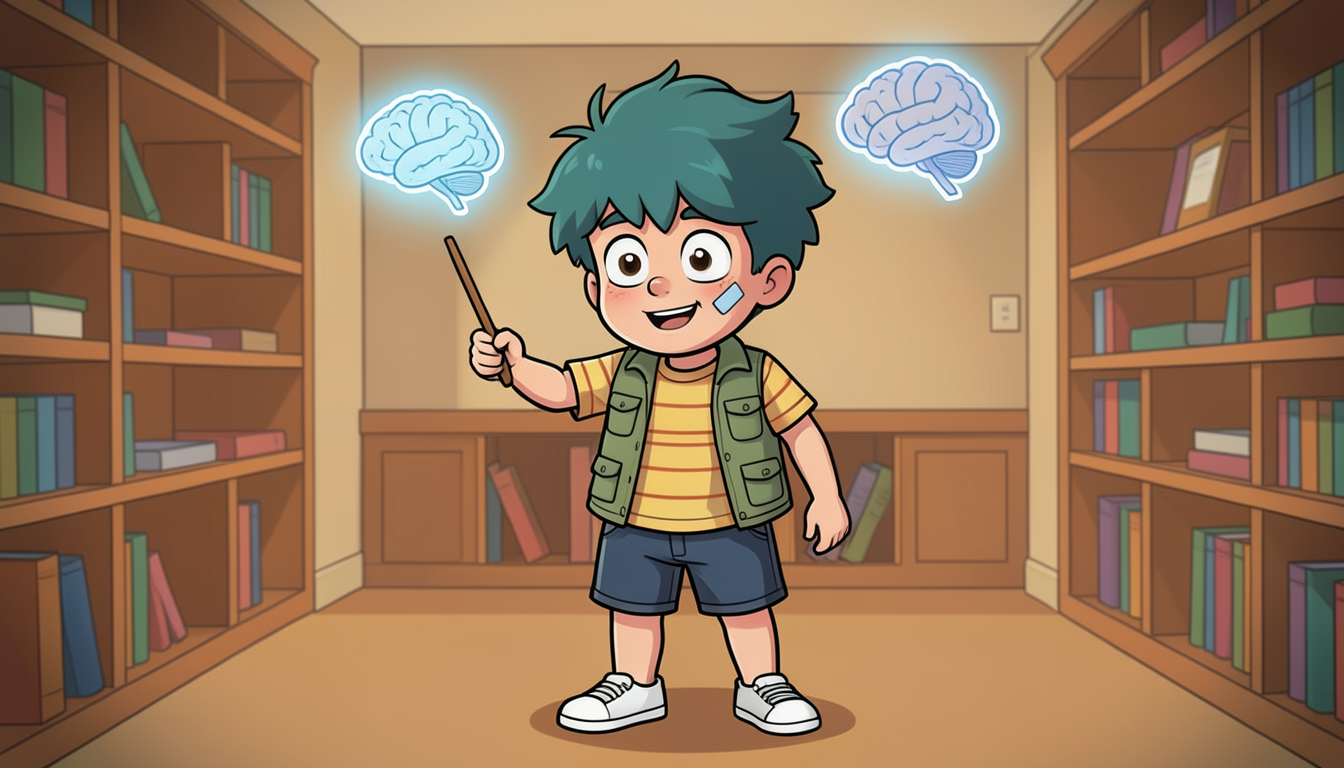
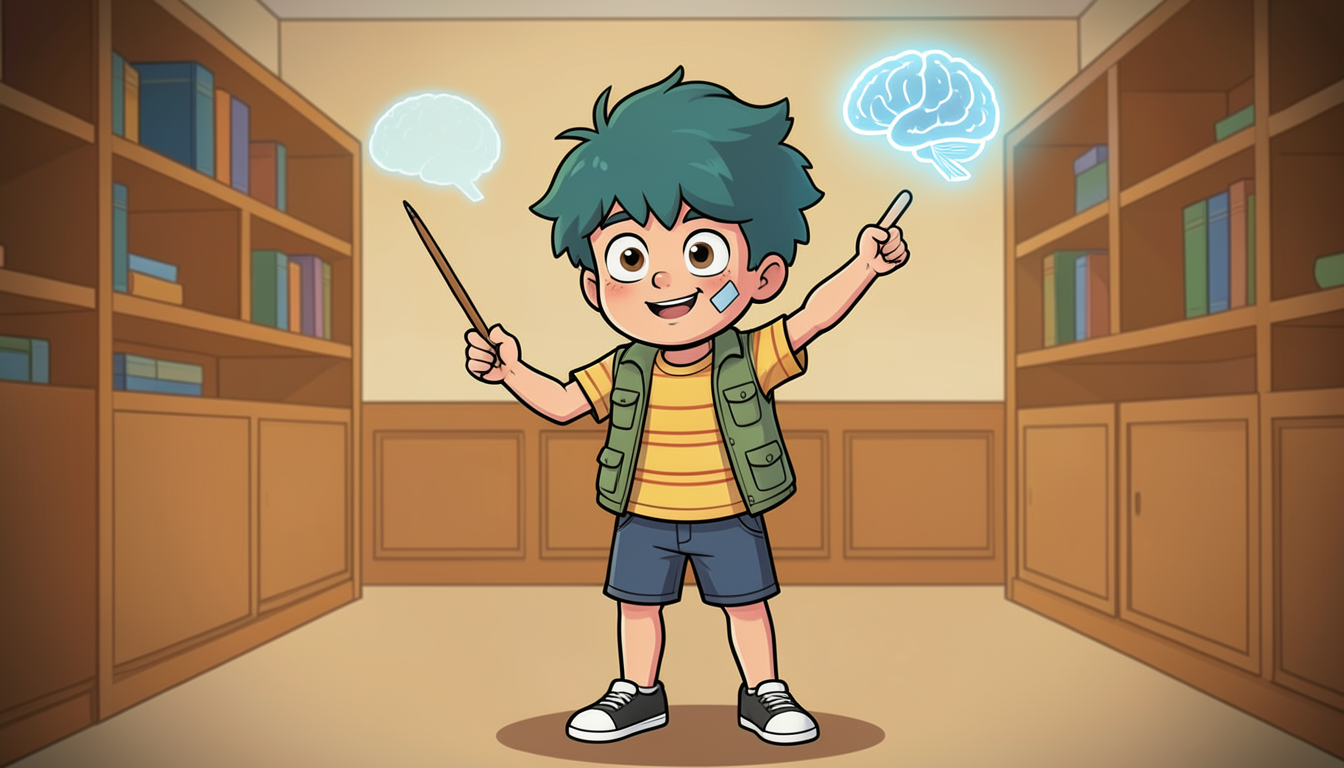
feat(qa): implementar evaluador de coherencia de identidad visual con embeddings CLIP

diff --git a/motor_animaciones/evaluador_coherencia.py b/motor_animaciones/evaluador_coherencia.py
@@ -1,0 +1,83 @@
+"""
+evaluador_coherencia.py
+Módulo de Control de Calidad y Coherencia Visual basado en Embeddings (CLIP).
+
+Ventajas sobre VLMs (Moondream/LLMs):
+- Ejecución ultra-rápida (menos de 200ms en CPU local).
+- Cero dependencia de red o conexiones SSH lentas.
+- Medición matemática objetiva en espacio latente (similitud del coseno 0-100%).
+- Rechazo automático de imágenes fuera de modelo (off-model) o con artefactos severos.
+"""
+
+import os
+import sys
+import torch
+from pathlib import Path
+from PIL import Image
+from transformers import CLIPModel, CLIPProcessor
+
+if sys.platform == "win32":
+    sys.stdout.reconfigure(encoding="utf-8")
+
+BASE_DIR = Path(__file__).resolve().parent
+RUTA_CANON_DIA = BASE_DIR / "niko_canon_ep2.png"
+RUTA_CANON_PIJAMA = BASE_DIR / "niko_referencia_pijama.png"
+
+MODEL_ID = "openai/clip-vit-base-patch32"
+
+class EvaluadorCoherencia:
+    _instance = None
+
+    def __new__(cls):
+        if cls._instance is None:
+            cls._instance = super(EvaluadorCoherencia, cls).__new__(cls)
+            cls._instance._inicializar()
+        return cls._instance
+
+    def _inicializar(self):
+        self.processor = CLIPProcessor.from_pretrained(MODEL_ID)
+        self.model = CLIPModel.from_pretrained(MODEL_ID)
+        self.model.eval()
+
+        # Precalcular embeddings de referencia canónicos
+        self.emb_niko_dia = self.calcular_embedding(str(RUTA_CANON_DIA))
+        self.emb_niko_pijama = self.calcular_embedding(str(RUTA_CANON_PIJAMA))
+
+    def calcular_embedding(self, img_path: str):
+        img = Image.open(img_path).convert("RGB")
+        inputs = self.processor(images=img, return_tensors="pt")
+        with torch.no_grad():
+            features = self.model.get_image_features(**inputs)
+            if hasattr(features, "pooler_output"):
+                features = features.pooler_output
+            elif hasattr(features, "image_embeds"):
+                features = features.image_embeds
+            features = features / features.norm(p=2, dim=-1, keepdim=True)
+        return features
+
+    def evaluar_niko(self, img_path: str, es_pijama: bool = False, umbral: float = 75.0) -> dict:
+        """
+        Evalúa si la imagen candidata mantiene la identidad y estilo canónico de Niko.
+        """
+        if not os.path.exists(img_path):
+            return {"aprobado": False, "score": 0.0, "mensaje": "Imagen no encontrada"}
+
+        emb_candidata = self.calcular_embedding(img_path)
+        emb_referencia = self.emb_niko_pijama if es_pijama else self.emb_niko_dia
+
+        similitud = torch.cosine_similarity(emb_referencia, emb_candidata).item() * 100.0
+        aprobado = similitud >= umbral
+
+        return {
+            "aprobado": aprobado,
+            "score": round(similitud, 2),
+            "umbral": umbral,
+            "tipo_referencia": "pijama" if es_pijama else "dia/aventura",
+            "mensaje": f"{'✅ APROBADO' if aprobado else '❌ RECHAZADO'} ({similitud:.1f}% >= {umbral:.1f}%)"
+        }
+
+if __name__ == "__main__":
+    evaluador = EvaluadorCoherencia()
+    test_img = str(RUTA_CANON_DIA)
+    res = evaluador.evaluar_niko(test_img)
+    print("Test auto-evaluación:", res)

diff --git a/Episodio_2/test_clip_similarity.py b/Episodio_2/test_clip_similarity.py
@@ -1,0 +1,51 @@
+import os
+import sys
+import torch
+from PIL import Image
+from transformers import CLIPModel, CLIPProcessor
+
+if sys.platform == "win32":
+    sys.stdout.reconfigure(encoding="utf-8")
+
+MODEL_ID = "openai/clip-vit-base-patch32"
+
+print(f"🚀 Cargando extractor de embeddings: {MODEL_ID}...")
+processor = CLIPProcessor.from_pretrained(MODEL_ID)
+model = CLIPModel.from_pretrained(MODEL_ID)
+model.eval()
+
+def obtener_embedding(img_path):
+    img = Image.open(img_path).convert("RGB")
+    inputs = processor(images=img, return_tensors="pt")
+    with torch.no_grad():
+        features = model.get_image_features(**inputs)
+        # Normalizar vector
+        if hasattr(features, "pooler_output"):
+            features = features.pooler_output
+        elif hasattr(features, "image_embeds"):
+            features = features.image_embeds
+        features = features / features.norm(p=2, dim=-1, keepdim=True)
+    return features
+
+ref_path = r"c:\Users\Lenovo\Documents\Animaciones\motor_animaciones\niko_canon_ep2.png"
+
+test_images = [
+    ("Canónico Niko (Calle)", r"c:\Users\Lenovo\Documents\Animaciones\Episodio_2\assets\img\ep2_escena_2_p1.png"),
+    ("Niko Cama (Pijama)", r"c:\Users\Lenovo\Documents\Animaciones\motor_animaciones\niko_referencia_pijama.png"),
+    ("Niko 1:4.5 (Biblioteca)", r"c:\Users\Lenovo\Documents\Animaciones\Episodio_2\assets\img\ep2_escena_3_p1.png"),
+    ("Hipocampo Dorado (No es Niko)", r"c:\Users\Lenovo\Documents\Animaciones\Episodio_2\assets\img\ep2_escena_3_p2.png"),
+    ("Cámara de Seguridad (No es Niko)", r"c:\Users\Lenovo\Documents\Animaciones\Episodio_2\assets\img\ep2_escena_3_p5.png"),
+]
+
+print(f"\n📌 Imagen de Referencia Canónica: {os.path.basename(ref_path)}")
+emb_ref = obtener_embedding(ref_path)
+
+print("\n--- RESULTADOS DE SIMILITUD DE IDENTIDAD VISUAL ---")
+for nombre, ruta in test_images:
+    if os.path.exists(ruta):
+        emb_test = obtener_embedding(ruta)
+        sim = torch.cosine_similarity(emb_ref, emb_test).item() * 100.0
+        veredicto = "✅ COHERENTE" if sim >= 70.0 else ("⚠ PARCIAL" if sim >= 55.0 else "❌ RECHAZADO")
+        print(f"{nombre:35s}: {sim:5.1f}% [{veredicto}]")
+    else:
+        print(f"{nombre:35s}: ARCHIVO NO ENCONTRADO")

diff --git a/motor_animaciones/niko_bible.py b/motor_animaciones/niko_bible.py
@@ -23,19 +23,19 @@ ESTILO = (
 )
 
 NIKO = (
-    "Niko, a 12-year-old cartoon boy, strictly identical to reference character: "
-    "round face, small cute button nose, simple arched eyebrows, big expressive brown eyes, messy spiky dark teal-green hair (#2BB5A0), "
-    "exactly ONE single small light-blue rectangular band-aid on his left cheek, clear skin on right cheek with NO second band-aid, "
+    "Niko, a 12-year-old pre-teen cartoon boy, strictly identical to reference character: "
+    "round head with defined jawline, NOT chubby cheeks, small cute button nose, simple arched eyebrows, big expressive brown eyes, messy spiky dark teal-green hair (#2BB5A0), "
+    "exactly ONE single small light-blue rectangular band-aid on his left cheek, clear smooth skin on right cheek with NO second band-aid, "
     "warm light tan skin, olive green utility vest over yellow-and-white thin horizontally striped t-shirt, dark blue shorts, white sneakers, "
-    "NO backpack, NO extra accessories, consistent proportions, head-to-body ratio 1:3, clean 2D flat animation style"
+    "slender longer limbs, athletic 12-year-old pre-teen proportions, head-to-body ratio 1:4.5, NOT a toddler, NOT a baby, NOT chibi, clean 2D flat vector animation style"
 )
 
 NIKO_PIJAMA = (
-    "Niko, a 12-year-old cartoon boy in bed pajamas, strictly identical character: "
-    "round head, big expressive brown eyes, messy spiky dark teal-green hair (#2BB5A0), "
-    "exactly ONE small light-blue band-aid on his left cheek, "
+    "Niko, a 12-year-old pre-teen cartoon boy in bed pajamas, strictly identical character: "
+    "round head with defined jawline, big expressive brown eyes, messy spiky dark teal-green hair (#2BB5A0), "
+    "exactly ONE single small light-blue band-aid on his left cheek, "
     "warm light tan skin, yellow sleeping shirt, cozy bedtime attire, "
-    "consistent proportions, head-to-body ratio 1:3"
+    "slender limbs, head-to-body ratio 1:4.5, NOT a toddler, NOT a baby"
 )
 
 PLANOS = {
